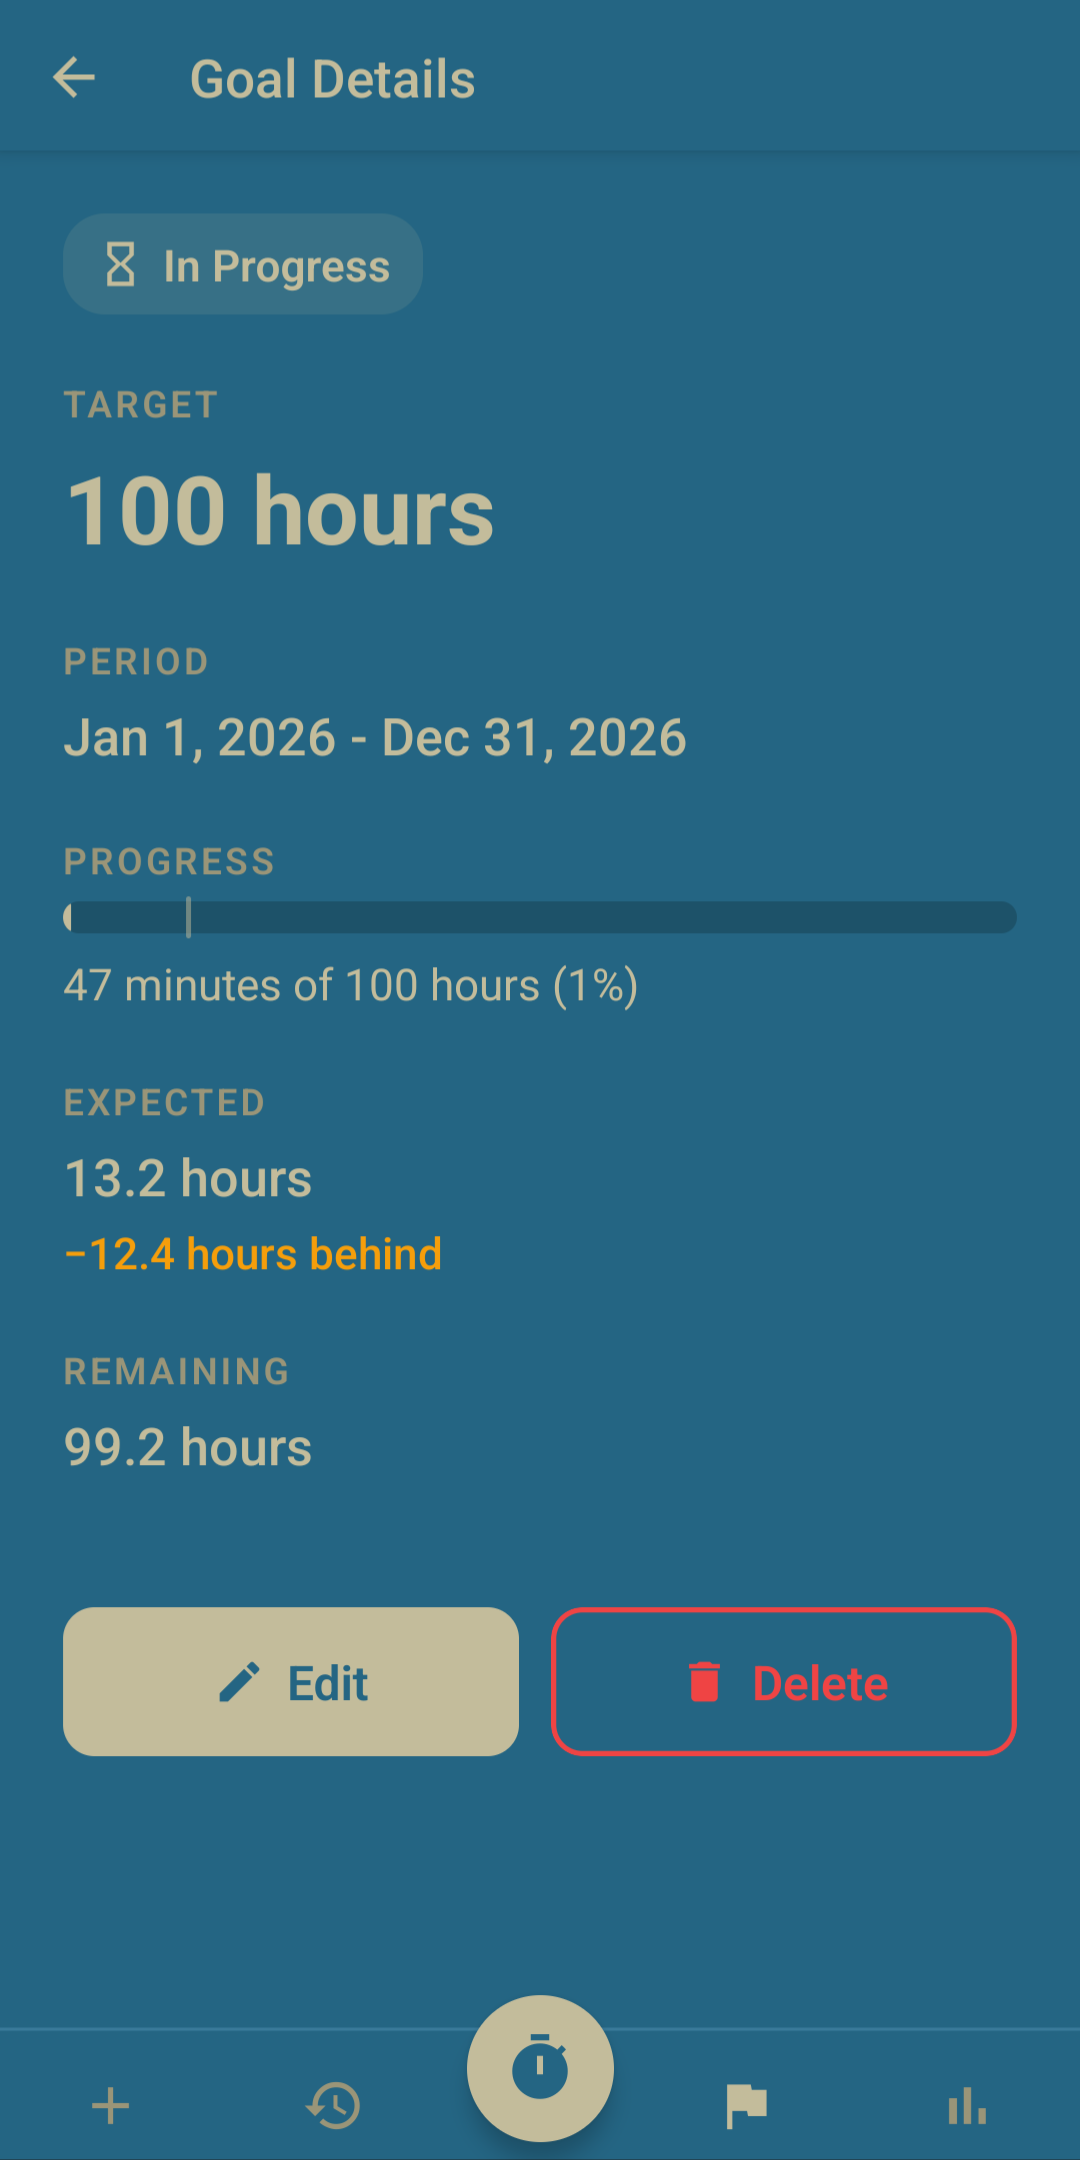
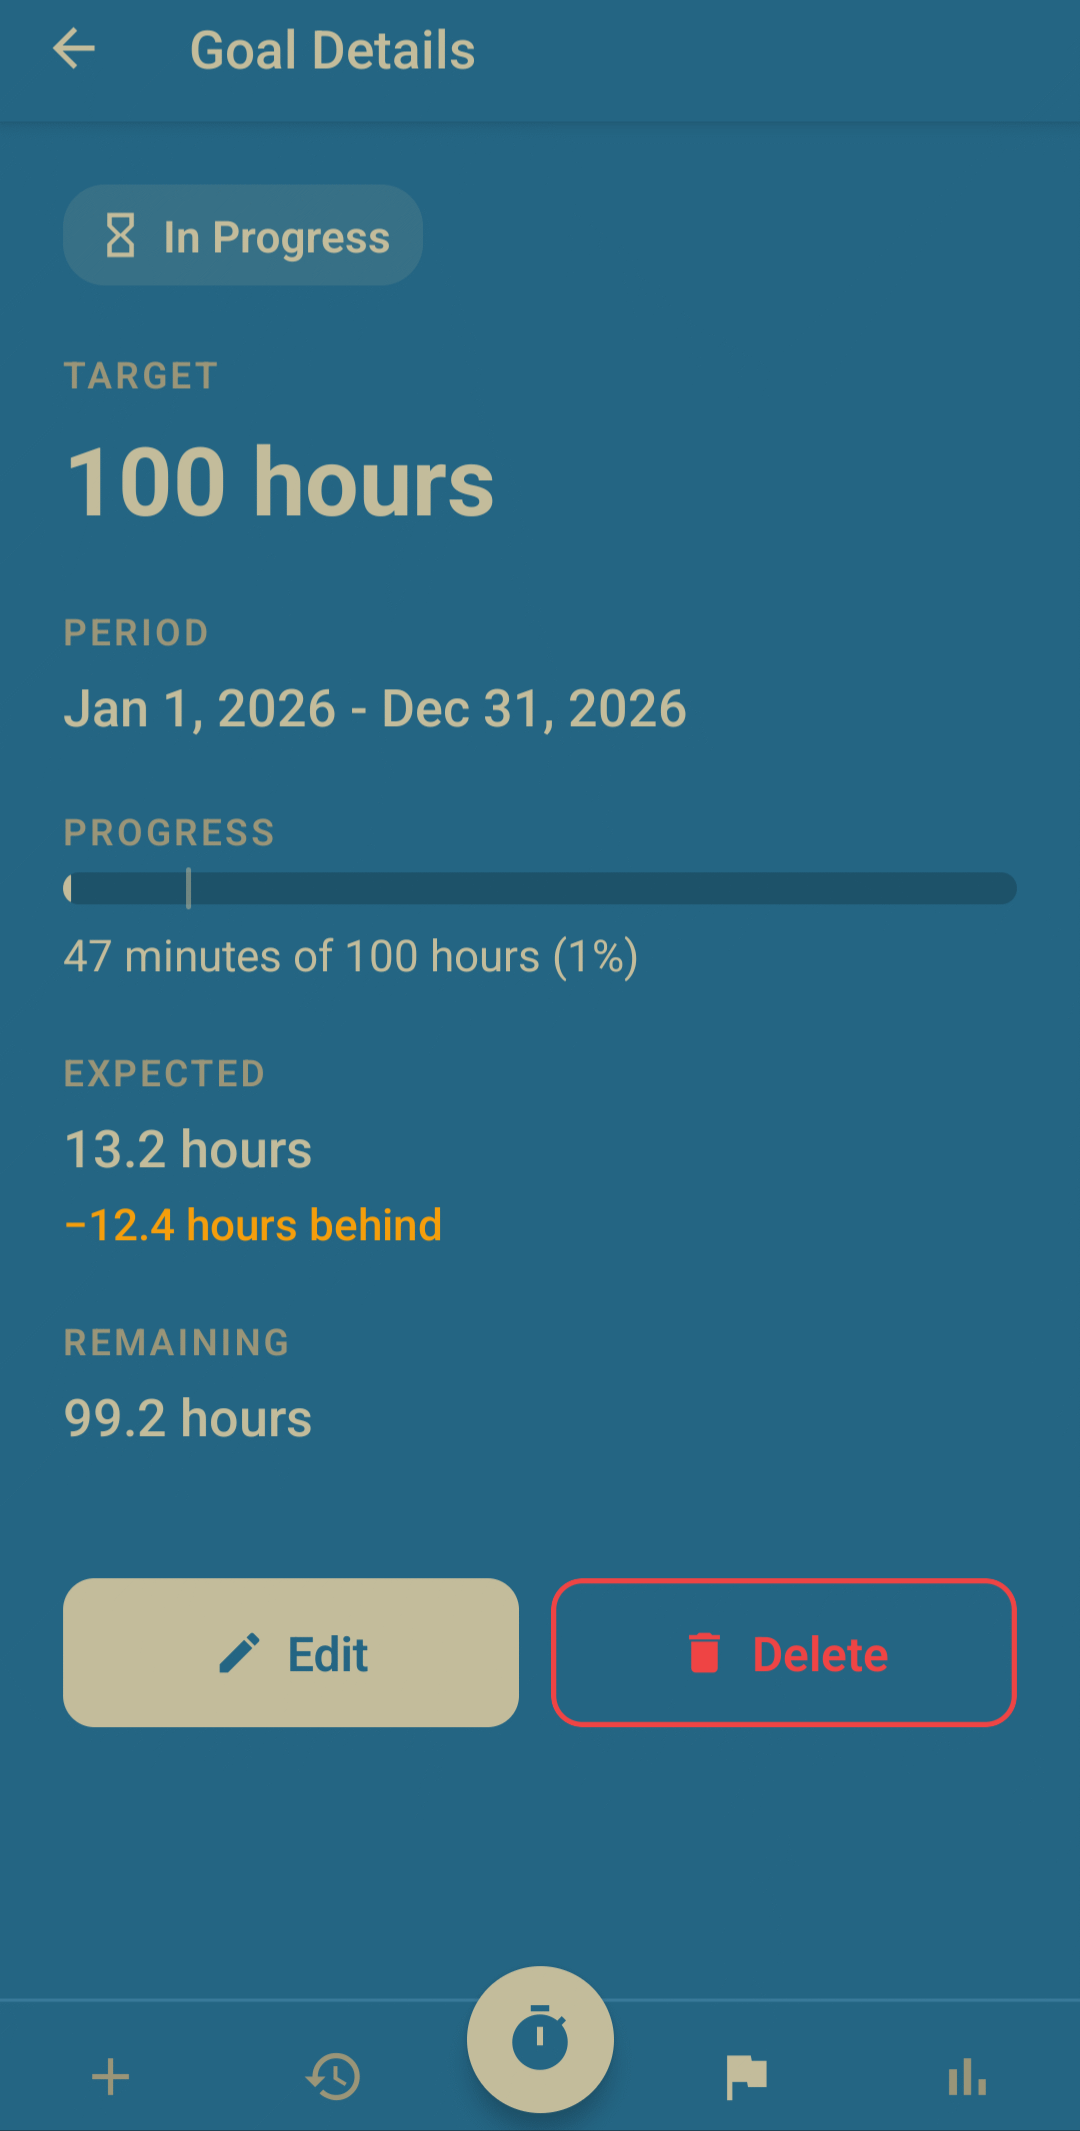
fix image sizes and adjust width

diff --git a/README.md b/README.md
@@ -10,11 +10,11 @@ A simple Android app for meditation tracking.
 
 <p style="margin: auto;" align="center" width="100%">
 
-<img width="33%" src="docs/goals.png">
+<img width="30%" src="docs/goals.png">
 
-<img width="33%" src="docs/timer.png">
+<img width="30%" src="docs/timer.png">
 
-<img width="33%" src="docs/stats.png">
+<img width="30%" src="docs/stats.png">
 
 </p>
 
